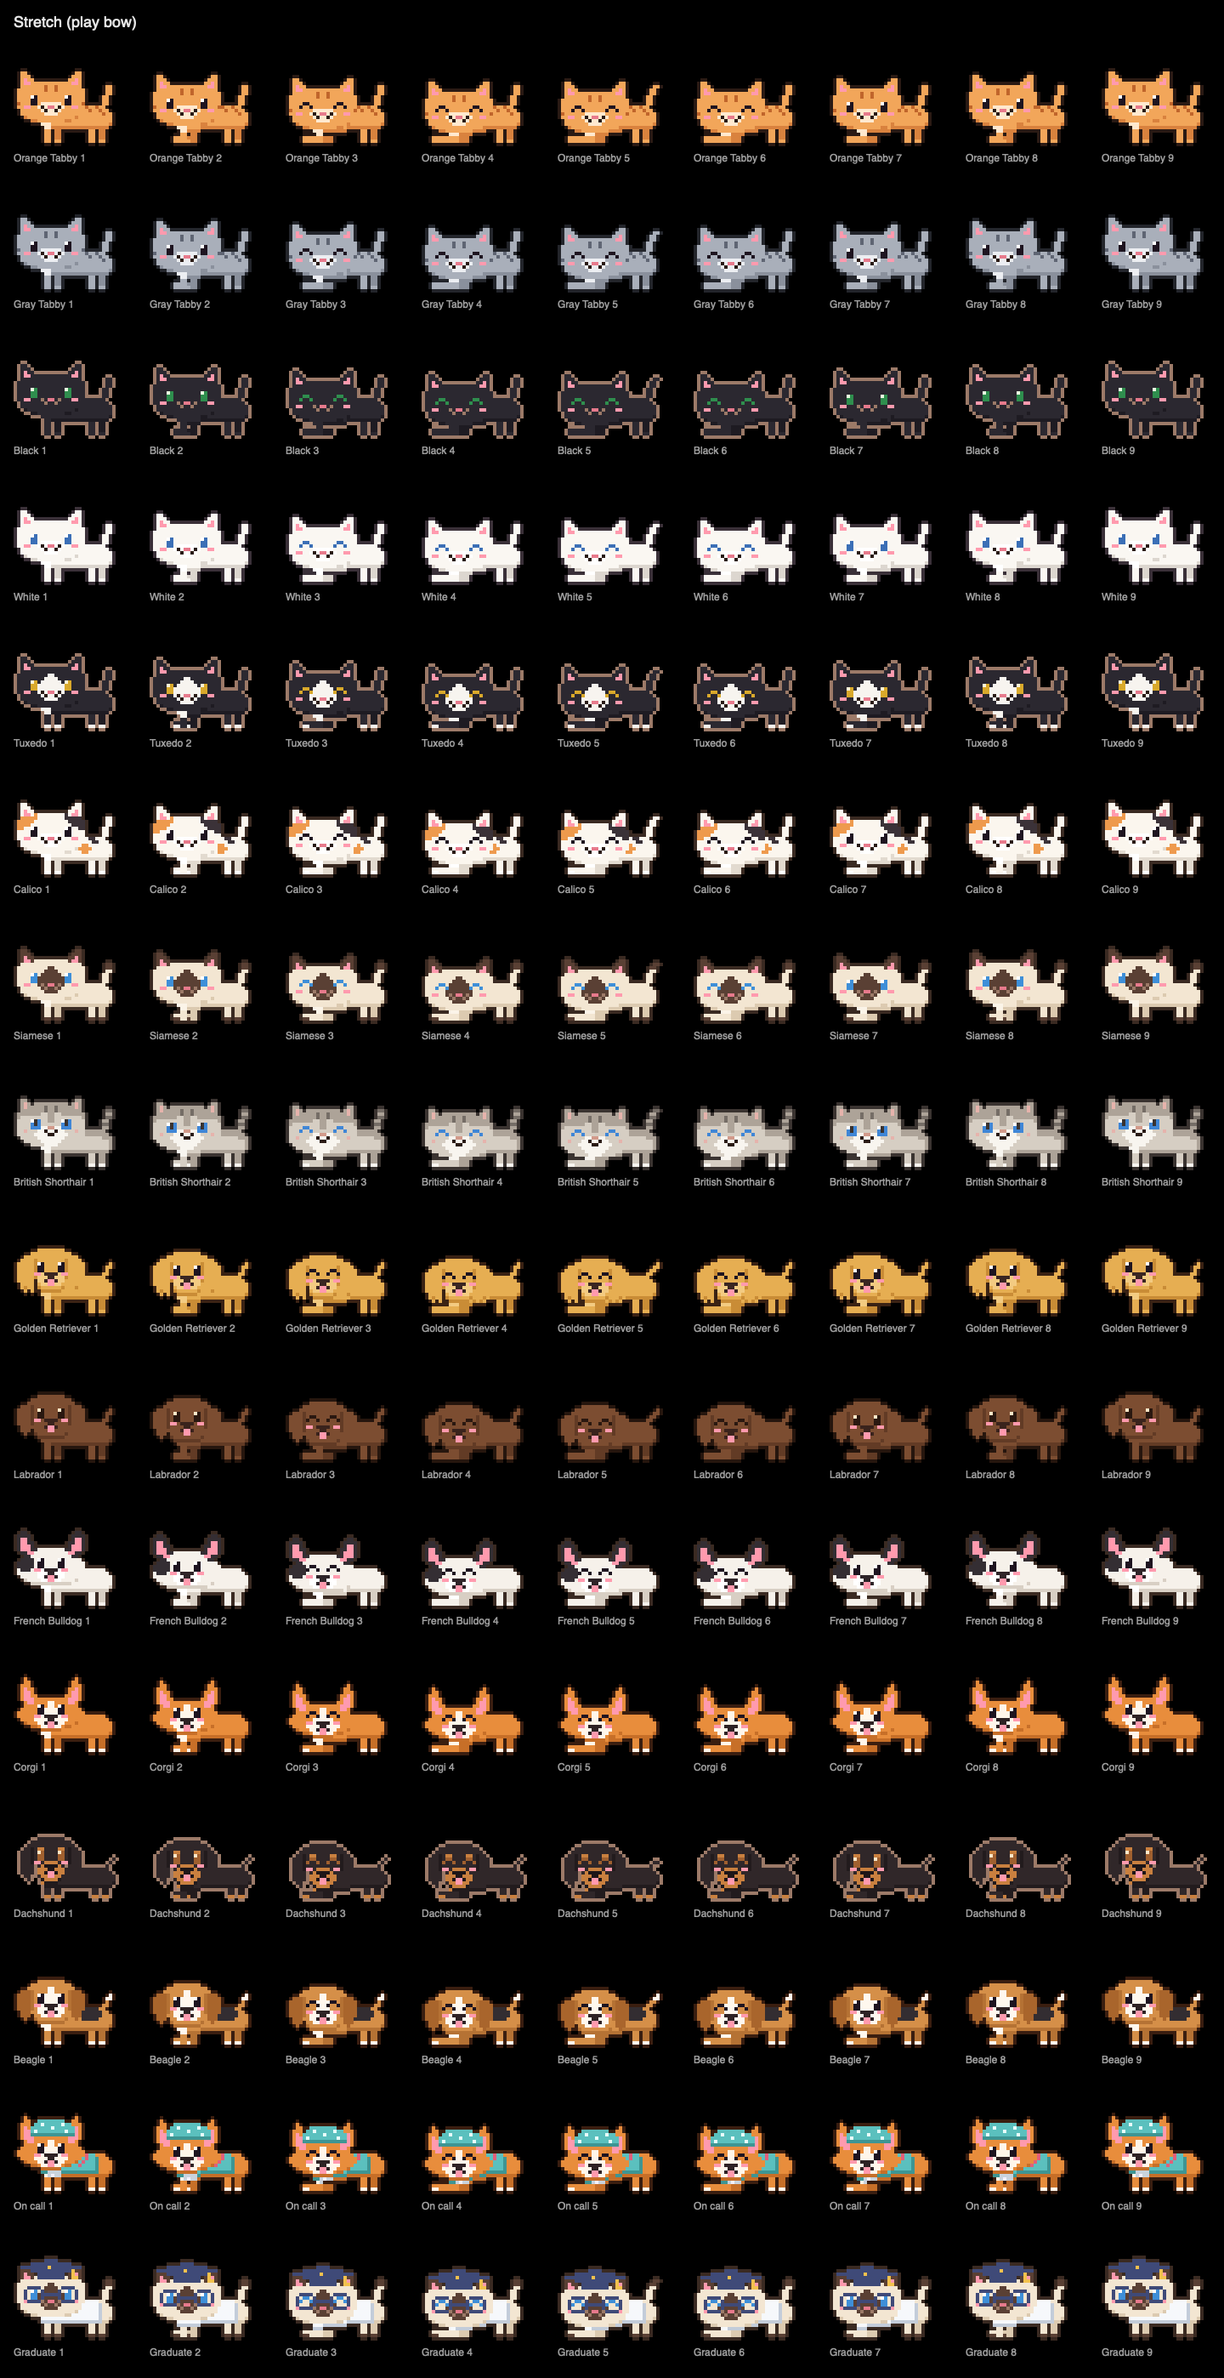
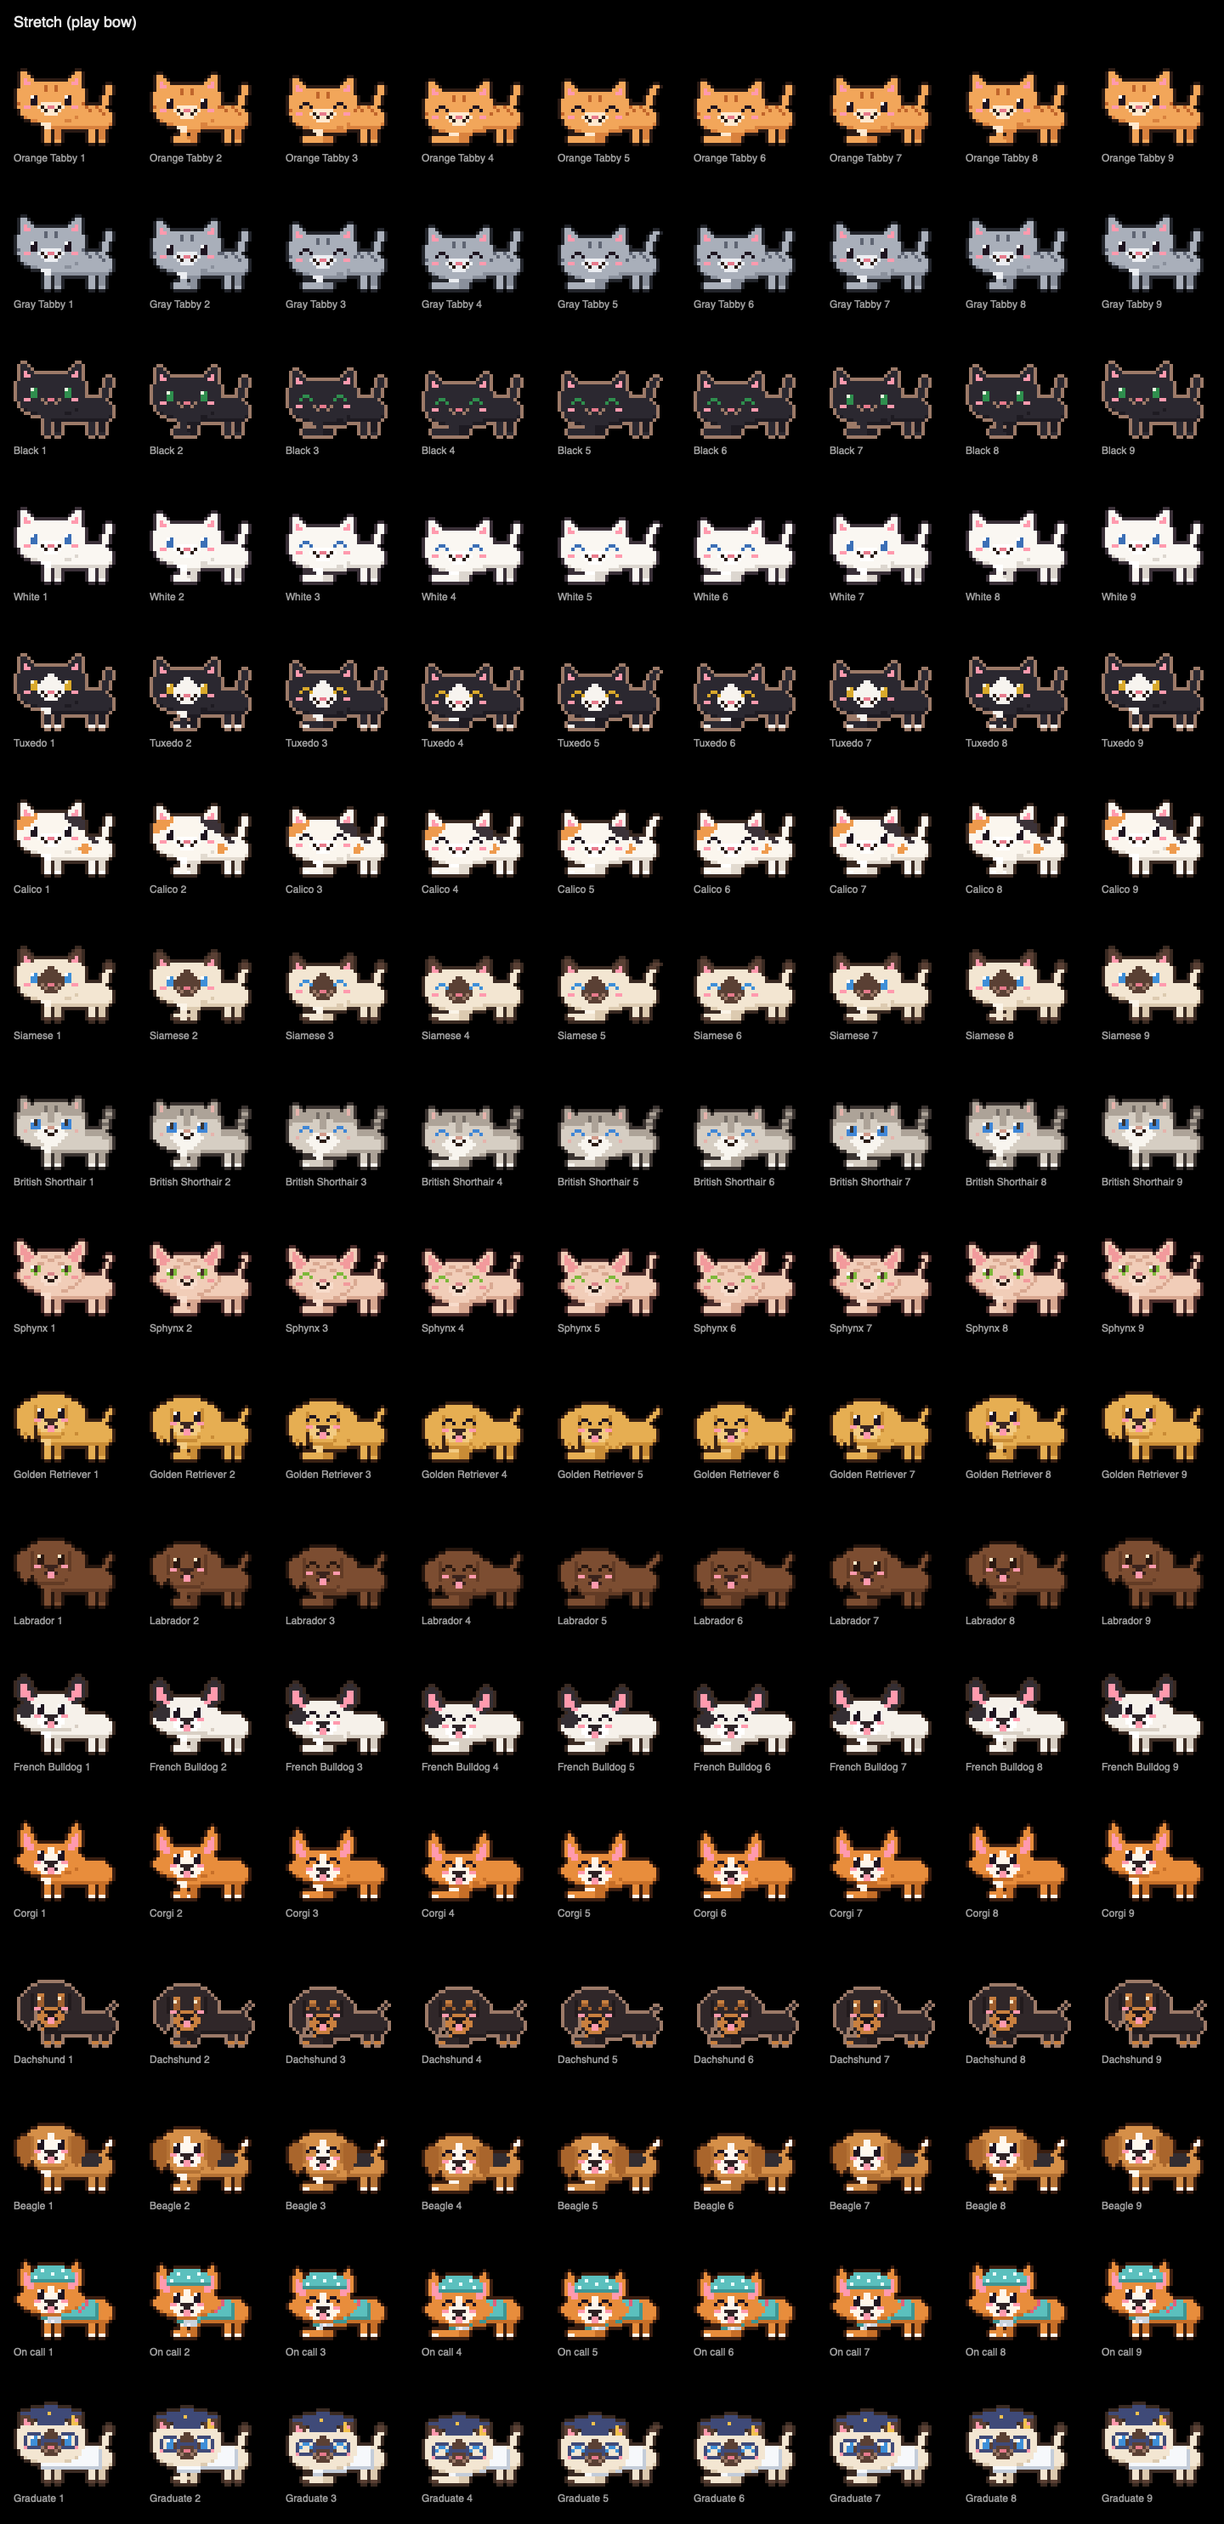
feat(pets): Added the Sphynx cat breed: a hairless pink-beige cat with big flared ears, wrinkle shading, large lemon-shaped green eyes, and a thin whip tail. It has its own sitting, walking and stretching art, plus tests, docs, and contact sheets.

diff --git a/Sources/TabbiKitCore/Pets/PetBreed.swift b/Sources/TabbiKitCore/Pets/PetBreed.swift
@@ -18,6 +18,8 @@ public enum PetBodyShape: String, CaseIterable, Codable, Sendable {
     case cat
     /// Cat body with the round-cheeked, small-eared head.
     case roundCat
+    /// Hairless cat with big flared ears and a wrinkled brow (Sphynx).
+    case sphynxCat
     /// Hanging ears on a rounded skull (Labrador, Beagle).
     case floppyDog
     /// Long feathered ears (Golden Retriever).
@@ -31,7 +33,7 @@ public enum PetBodyShape: String, CaseIterable, Codable, Sendable {
 
     public var species: PetSpecies {
         switch self {
-        case .cat, .roundCat: .cat
+        case .cat, .roundCat, .sphynxCat: .cat
         case .floppyDog, .fluffyDog, .batEaredDog, .pointyEaredDog, .longDog: .dog
         }
     }
@@ -48,6 +50,7 @@ public enum PetBreed: String, CaseIterable, Codable, Sendable {
     case calico
     case siamese
     case britishShorthair
+    case sphynx
     case goldenRetriever
     case labrador
     case frenchBulldog
@@ -61,6 +64,7 @@ public enum PetBreed: String, CaseIterable, Codable, Sendable {
         switch self {
         case .orangeTabby, .grayTabby, .blackCat, .whiteCat, .tuxedo, .calico, .siamese: .cat
         case .britishShorthair: .roundCat
+        case .sphynx: .sphynxCat
         case .goldenRetriever: .fluffyDog
         case .labrador, .beagle: .floppyDog
         case .frenchBulldog: .batEaredDog
@@ -88,6 +92,7 @@ public enum PetBreed: String, CaseIterable, Codable, Sendable {
         case .calico: "Calico"
         case .siamese: "Siamese"
         case .britishShorthair: "British Shorthair"
+        case .sphynx: "Sphynx"
         case .goldenRetriever: "Golden Retriever"
         case .labrador: "Labrador"
         case .frenchBulldog: "French Bulldog"
@@ -132,6 +137,12 @@ public enum PetBreed: String, CaseIterable, Codable, Sendable {
             return PetPalette([.furBase: c("#D6CEC3"), .furShade: c("#ADA398"), .furAccent: c("#756D66"),
                                .belly: c("#F8F5EF"), .eye: c("#3F86D6"), .eyeLight: c("#FFFFFF"),
                                .nose: c("#D29A8A"), .blush: c("#E6B3AC"), .outline: c("#3A3330")])
+        case .sphynx:
+            // Hairless pink-beige skin with deeper shade for wrinkles, a
+            // rosy blush, and big green-gold eyes.
+            return PetPalette([.furBase: c("#F1CDB8"), .furShade: c("#D9A891"), .furAccent: c("#E6B8A2"),
+                               .belly: c("#F8DCCB"), .eye: c("#7DB83A"), .eyeLight: c("#FFFFFF"),
+                               .nose: c("#D9868A"), .blush: c("#F29A9C"), .outline: c("#4A2C2A")])
         case .goldenRetriever:
             return PetPalette([.furBase: c("#E6AE52"), .furShade: c("#C98C36"), .furAccent: c("#F3CB82"),
                                .belly: c("#F7DCA8"), .nose: c("#3A2622"), .outline: c("#3A2214")])
@@ -175,6 +186,8 @@ public enum PetBreed: String, CaseIterable, Codable, Sendable {
         case .britishShorthair:
             return PetPattern([.muzzle: .belly, .chest: .belly, .paws: .belly, .ears: .furShade,
                                .mask: .furShade, .stripes: .furShade, .tailTip: .furAccent])
+        case .sphynx:
+            return PetPattern([.chest: .belly, .muzzle: .belly])
         case .goldenRetriever:
             return PetPattern([.chest: .furAccent, .muzzle: .furAccent])
         case .labrador:

diff --git a/Sources/TabbiKitCore/Pets/Art/CatArt.swift b/Sources/TabbiKitCore/Pets/Art/CatArt.swift
@@ -110,4 +110,62 @@ enum CatArt {
         ..SSBpppBBBBpppBSS..
         ...Spppp....ppppS...
         """)
+
+    /// Sphynx: big bat-like ears flaring out from a narrow crown, forehead
+    /// wrinkles drawn as short shade lines, sharp cheekbones, and a narrow
+    /// muzzle. Hairless, so there is no ear tuft or stripe zone.
+    static let headSphynx = SpriteGrid(art: """
+        ee................ee
+        ePe..............ePe
+        ePPe............ePPe
+        ePPPe.BBBBBBBB.ePPPe
+        .ePPPBBSSBBSSBBPPPe.
+        .ePPBBBBBSSBBBBBPPe.
+        ..eBBBSSBBBBSSBBBe..
+        ..BBBBBBBBBBBBBBBB..
+        .BBBBBBBBBBBBBBBBBB.
+        SBBBBBBBBBBBBBBBBBBS
+        SBBBBBBmmmmmmBBBBBBS
+        .SBBBBBmmmmmmBBBBBS.
+        ..SBBBBBmmmmBBBBBS..
+        ...SSBBBBBBBBBBSS...
+        .....SSBBBBBBSS.....
+        """)
+
+    /// Sphynx face: big 3x3 lemon eyes with a slit pupil drawn in the
+    /// outline color, a small nose over a "w" mouth, and rosy cheeks.
+    static let faceSphynx = SpriteGrid(art: """
+        ....................
+        ....................
+        ....................
+        ....................
+        ....................
+        ....................
+        ....................
+        ....LOE......LOE....
+        ....EOE......EOE....
+        .....E...NN...E.....
+        ..PP....R..R....PP..
+        .........RR.........
+        ....................
+        ....................
+        ....................
+        """)
+
+    /// Sphynx sitting body, the same 20x11 frame as `bodySit` so every
+    /// costume fits: a lean chest with wrinkles at the neck, bony haunches,
+    /// and a thin whip tail curling up.
+    static let bodySphynx = SpriteGrid(art: """
+        .....BBBBBBBBBB.....
+        ....BSBccccccBSB...t
+        ....BBcSccccScBB..t.
+        ...BBBccSccSccBBB.t.
+        ...SBBBccccccBBBS.t.
+        ...SBSBBccccBBSBS.t.
+        ...BBSBBBBBBBBSBB.t.
+        ...BBSBBBBBBBBSBBBB.
+        ...BBSBBBBBBBBSBBB..
+        ...SBppSBBBBSppBSS..
+        ....pppp....pppp....
+        """)
 }

diff --git a/Sources/TabbiKitCore/Pets/PetComposer.swift b/Sources/TabbiKitCore/Pets/PetComposer.swift
@@ -255,12 +255,14 @@ public enum PetComposer {
 
         init(_ shape: PetBodyShape) {
             switch shape {
-            case .cat, .roundCat:
+            case .cat, .roundCat, .sphynxCat:
                 family = .cat
                 (bodyX, bodyY, tail) = (6, 20, nil)
-                (body, head, face) = shape == .roundCat
-                    ? (CatArt.bodyRound, CatArt.headRound, CatArt.faceRound)
-                    : (CatArt.bodySit, CatArt.head, CatArt.faceOpen)
+                (body, head, face) = switch shape {
+                case .roundCat: (CatArt.bodyRound, CatArt.headRound, CatArt.faceRound)
+                case .sphynxCat: (CatArt.bodySphynx, CatArt.headSphynx, CatArt.faceSphynx)
+                default: (CatArt.bodySit, CatArt.head, CatArt.faceOpen)
+                }
                 (headX, headY, faceRow, eyeRow, skullTop) = (6, 7, 0, 7, 3)
             case .longDog:
                 family = .longDog
@@ -314,9 +316,11 @@ public enum PetComposer {
             self.family = family
             switch family {
             case .cat:
-                (torso, tails) = shape == .roundCat
-                    ? (WalkArt.roundCatTorso, WalkArt.roundCatTail)
-                    : (WalkArt.catTorso, WalkArt.catTail)
+                (torso, tails) = switch shape {
+                case .roundCat: (WalkArt.roundCatTorso, WalkArt.roundCatTail)
+                case .sphynxCat: (WalkArt.sphynxTorso, WalkArt.sphynxTail)
+                default: (WalkArt.catTorso, WalkArt.catTail)
+                }
                 (torsoY, tailX) = (20, 26)
                 (legHeight, backHip, chinRow) = (4, 22, 24)
             case .dog:

diff --git a/Tests/TabbiKitCoreTests/PetsSpriteTests.swift b/Tests/TabbiKitCoreTests/PetsSpriteTests.swift
@@ -181,7 +181,7 @@ final class PetRendererTests: XCTestCase {
 
 final class PetBreedTests: XCTestCase {
     func testCatalogHasEveryCatAndDogBreed() {
-        XCTAssertEqual(PetBreed.breeds(of: .cat).count, 8)
+        XCTAssertEqual(PetBreed.breeds(of: .cat).count, 9)
         XCTAssertEqual(PetBreed.breeds(of: .dog), [
             .goldenRetriever, .labrador, .frenchBulldog, .corgi, .dachshund, .beagle,
         ])
@@ -192,6 +192,22 @@ final class PetBreedTests: XCTestCase {
         let shapes: [PetBreed] = [.goldenRetriever, .labrador, .frenchBulldog, .corgi, .dachshund]
         let silhouettes = shapes.map { breed in PetComposer.sitting(breed).pixels.map { $0 != nil } }
         XCTAssertEqual(Set(silhouettes).count, shapes.count)
+    }
+
+    func testSphynxHasItsOwnHairlessSilhouette() {
+        // The big flared ears must set the Sphynx apart by shape, not only
+        // by its pink skin.
+        let sphynx = PetComposer.sitting(.sphynx)
+        let silhouette = sphynx.pixels.map { $0 != nil }
+        for other in PetBreed.breeds(of: .cat) where other != .sphynx {
+            XCTAssertNotEqual(PetComposer.sitting(other).pixels.map { $0 != nil }, silhouette, "\(other)")
+        }
+        // Hairless: no stripes, spots, or a dark mask, and visible pink blush.
+        let roles = Set(sphynx.pixels.compactMap { $0 })
+        XCTAssertFalse(roles.contains(.furAccent))
+        XCTAssertFalse(roles.contains(.furSpot))
+        XCTAssertTrue(roles.contains(.blush))
+        XCTAssertTrue(roles.contains(.furShade), "wrinkles are hinted with shading")
     }
 
     func testDarkDogsStillGetTheWarmRim() {

diff --git a/Sources/PetGallery/main.swift b/Sources/PetGallery/main.swift
@@ -219,7 +219,8 @@ try writeSheet(recolorCells, columns: 5, title: "Recolors (fur, scrubs, knits)",
 
 // Breed close-up: one breed through every animation frame and every look, at
 // 4x and at notch size (24 and 32 pt on a 2x display), for art direction.
-let focusBreed = PetBreed.britishShorthair
+// `swift run PetGallery out/ sphynx` picks another breed than the default cat.
+let focusBreed = arguments.dropFirst().first.flatMap(PetBreed.init(rawValue:)) ?? .britishShorthair
 var focusCells: [Cell] = []
 for animation in PetAnimation.allCases {
     let clip = PetComposer.clip(animation, for: focusBreed)
@@ -236,12 +237,12 @@ let focusLooks = looks.map { label, outfit, accessories in
 }
 try writeSheet(focusLooks, columns: 5, title: "Costumes on \(focusBreed.displayName)",
                to: outputDirectory.appendingPathComponent("costumes-\(focusBreed.rawValue).png"))
-let notchCells = PetBreed.breeds(of: .cat).map { breed in
+let notchCells = PetBreed.breeds(of: focusBreed.species).map { breed in
     Cell(label: "", canvas: PetComposer.sitting(breed), palette: breed.palette.withVisibleRim())
 } + focusCells.filter { !$0.label.hasPrefix("walk") && !$0.label.hasPrefix("stretch") }.prefix(8)
     .map { Cell(label: "", canvas: $0.canvas, palette: $0.palette) }
 for notchScale in [1, 2] {
-    try writeSheet(notchCells, columns: 8, title: "", scale: notchScale,
+    try writeSheet(notchCells, columns: max(8, PetBreed.breeds(of: focusBreed.species).count), title: "", scale: notchScale,
                    to: outputDirectory.appendingPathComponent("notch-size-\(notchScale)x.png"))
 }
 

diff --git a/Sources/TabbiKitCore/Pets/Art/WalkArt.swift b/Sources/TabbiKitCore/Pets/Art/WalkArt.swift
@@ -92,6 +92,38 @@ enum WalkArt {
             """),
     ]
 
+    /// Sphynx torso: lean, with wrinkle lines over the shoulders and a
+    /// slim belly line.
+    static let sphynxTorso = SpriteGrid(art: """
+        ...BBBBBBBBBBBBBBBBB..
+        ..BBBSBBSBBBBBBBBBBBB.
+        .BBBSBBSBBBBBBBBBBBBBB
+        .BBBBBBBBBBBBBBBBBBBBB
+        .cBBBBBBBBBBBBBBBBBBBS
+        .cccBBBBBBBBBBBBBBBBSS
+        ..ccSSSSSSSSSSSSSSSS..
+        """)
+
+    /// The Sphynx's thin whip tail, held high with a curled tip.
+    static let sphynxTail = [
+        SpriteGrid(art: """
+            .tt
+            ..t
+            .B.
+            .B.
+            B..
+            B..
+            """),
+        SpriteGrid(art: """
+            .tt.
+            .t..
+            .B..
+            .B..
+            B...
+            B...
+            """),
+    ]
+
     static let dogTail = [
         SpriteGrid(art: """
             ..t

diff --git a/Sources/TabbiKitCore/Party/PartyPetAppearance.swift b/Sources/TabbiKitCore/Party/PartyPetAppearance.swift
@@ -72,6 +72,7 @@ public enum PartyPetAppearance {
         case .calico: "calico"
         case .siamese: "siamese"
         case .britishShorthair: "british-shorthair"
+        case .sphynx: "sphynx"
         case .goldenRetriever: "golden-retriever"
         case .labrador: "labrador"
         case .frenchBulldog: "french-bulldog"
@@ -90,7 +91,6 @@ public enum PartyPetAppearance {
         "maine-coon": .britishShorthair,
         "ragdoll": .britishShorthair,
         "bengal": .orangeTabby,
-        "sphynx": .siamese,
         "scottish-fold": .britishShorthair,
         "russian-blue": .grayTabby,
         "abyssinian": .orangeTabby,

diff --git a/docs/study/pets.md b/docs/study/pets.md
@@ -3,7 +3,7 @@
 A study-buddy cat or dog lives in the notch.
 This document explains how pet sprites are drawn, composed, and rendered, and how to add a breed.
 
-Status: the sprite format, palettes, pattern zones, renderer, all eight cat breeds, all six dog breeds, every costume, the front-facing animations (idle, blink, sit, sleep, peek in and out, alert, celebrate), the walk cycle, the stretch, the animation state machine, and the app's `PetView` exist.
+Status: the sprite format, palettes, pattern zones, renderer, all nine cat breeds, all six dog breeds, every costume, the front-facing animations (idle, blink, sit, sleep, peek in and out, alert, celebrate), the walk cycle, the stretch, the animation state machine, and the app's `PetView` exist.
 
 ![All cat breeds sitting, on black at 4x](images/cats-sitting.png)
 
@@ -12,7 +12,8 @@ Status: the sprite format, palettes, pattern zones, renderer, all eight cat bree
 ## Look at the art
 
 ```sh
-swift run PetGallery /tmp/petgallery   # writes contact sheets as PNGs at 4x
+swift run PetGallery /tmp/petgallery          # writes contact sheets as PNGs at 4x
+swift run PetGallery /tmp/petgallery sphynx   # close-up sheets for one breed (default: British Shorthair)
 ```
 
 Sheets are drawn on pure black, exactly like the notch.
@@ -323,6 +324,17 @@ What makes this cat recognizable, and where each part lives:
 `PetProfile.defaultName(for:)` gives cats no name and dogs "Biscuit", and `hasDefaultName` tells these (and "Mochi", the starter name in earlier versions) apart from a name the user chose, so switching species only renames a pet that still has a default name.
 A kit can still pick another starter (`moduleSettings.closet.pet`), and a pet that is already saved never changes.
 
+### The Sphynx
+
+The Sphynx is hairless, so its look comes from shape and shading instead of markings:
+
+- Head (`CatArt.headSphynx`): big ears flaring out from a narrow crown with pink insides, short shade lines across the brow for wrinkles, and sharp cheekbones over a narrow muzzle.
+- Face (`CatArt.faceSphynx`): large 3x3 lemon-shaped green eyes with a slit pupil and a white highlight, rosy cheeks, and a small "w" mouth.
+- Body (`CatArt.bodySphynx`, `WalkArt.sphynxTorso`, `WalkArt.sphynxTail`): a lean chest with neck wrinkles, bony haunches, and a one-pixel whip tail.
+- Coloring (`PetBreed.palette`): pink-beige skin, a deeper pink-tan for wrinkles, a lighter chest and muzzle, and a warm dark outline.
+
+![Every animation frame for the Sphynx](images/animations-sphynx.png)
+
 ### Recoloring fur
 
 `furAccent` means different things per breed: darker stripes on a tabby, lighter feathering on a golden's chest.
@@ -350,13 +362,14 @@ This also protects user recolors.
 ## Body shapes
 
 Breeds that share a silhouette share all of their art and differ only in palette and pattern.
-Cats look alike enough that two shapes cover all eight breeds.
+Cats look alike enough that three shapes cover all nine breeds.
 Dogs need more, because their ears and snouts are what make them recognizable at notch size:
 
 | Shape | Breeds | What sets it apart |
 | --- | --- | --- |
 | `cat` | most cats | pointed ears, tabby stripe zones |
 | `roundCat` | British Shorthair | small wide-set ears, round cheeks, big blue eyes, stocky body, ringed tail |
+| `sphynxCat` | Sphynx | big flared ears, wrinkled brow and neck, lemon eyes, lean body, thin whip tail |
 | `floppyDog` | Labrador, Beagle | hanging ears beside a rounded skull |
 | `fluffyDog` | Golden Retriever | long feathered ears |
 | `batEaredDog` | French Bulldog | big rounded bat ears, broad face |
